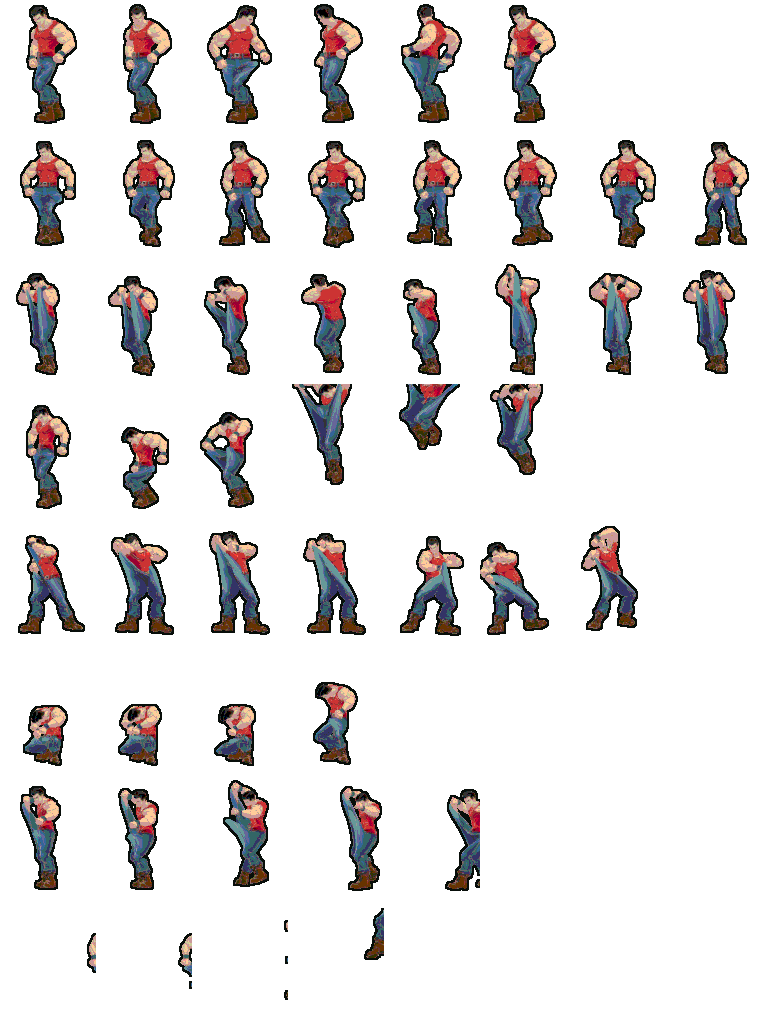
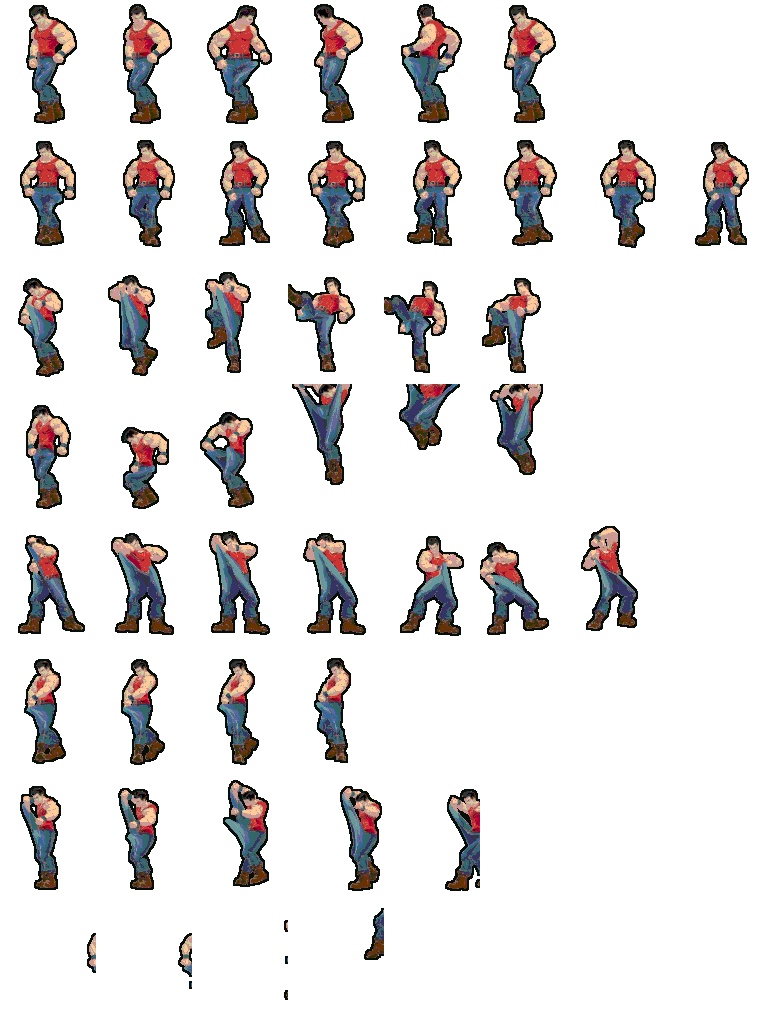
feat(crude-buster): vurma (net tekme) + kaldirma (kavrama) elden gecti
Kullanici geri bildirimi: saldiri ve tutus pozlari kotu okunuyordu.
- attack: Punch_Combo -> Spartan_Kick (206). Boks yumrugu 3/4 kucuk
  olcekte belirsizdi; net ileri tekme "saldiri"yi bariz okutur.
- hold: Collect_Object (egilme) -> Carry_Heavy_Cannon_Forward (550),
  kollar onde kavrama pozu.
- 8 karakterin hepsine uygulandi (her biri kendi rig'iyle, ~62 kredi).
- SHEET_LAYOUT attack 8->6 kare; render pencereleri ayarlandi.

Surum: crude-buster.js v11, tum sheet +1, SW convivium-v242.

diff --git a/assets/js/crude-buster.js b/assets/js/crude-buster.js
@@ -1281,7 +1281,7 @@ window.CrudeBuster = (function () {
     rows: {
       idle:   { row: 0, frames: 6 },
       walk:   { row: 1, frames: 8 },
-      attack: { row: 2, frames: 8 },
+      attack: { row: 2, frames: 6 },
       jump:   { row: 3, frames: 6 },
       throw:  { row: 4, frames: 7 },
       hold:   { row: 5, frames: 4 },
@@ -1291,14 +1291,14 @@ window.CrudeBuster = (function () {
   };
   // pal -> sprite sheet. Yeni karakter eklemek = burada bir satir + PNG.
   var SHEET_DEFS = [
-    { pal: 'ebinal',     src: '/assets/img/crude/ebinal-sheet.png?v=3',      drawH: 58, footPad: 3 },
-    { pal: 'debinal',    src: '/assets/img/crude/debinal-sheet.png?v=2',     drawH: 56, footPad: 3 },
-    { pal: 'punk',       src: '/assets/img/crude/punk-sheet.png?v=2',        drawH: 54, footPad: 3 },
-    { pal: 'knife',      src: '/assets/img/crude/knife-sheet.png?v=2',       drawH: 54, footPad: 3 },
-    { pal: 'brute',      src: '/assets/img/crude/brute-sheet.png?v=2',       drawH: 50, footPad: 3 },
-    { pal: 'thrower',    src: '/assets/img/crude/thrower-sheet.png?v=2',     drawH: 52, footPad: 3 },
-    { pal: 'bruteBoss',  src: '/assets/img/crude/bruteBoss-sheet.png?v=2',   drawH: 48, footPad: 3 },
-    { pal: 'cyborgBoss', src: '/assets/img/crude/cyborgBoss-sheet.png?v=2',  drawH: 48, footPad: 3 }
+    { pal: 'ebinal',     src: '/assets/img/crude/ebinal-sheet.png?v=4',      drawH: 58, footPad: 3 },
+    { pal: 'debinal',    src: '/assets/img/crude/debinal-sheet.png?v=3',     drawH: 56, footPad: 3 },
+    { pal: 'punk',       src: '/assets/img/crude/punk-sheet.png?v=3',        drawH: 54, footPad: 3 },
+    { pal: 'knife',      src: '/assets/img/crude/knife-sheet.png?v=3',       drawH: 54, footPad: 3 },
+    { pal: 'brute',      src: '/assets/img/crude/brute-sheet.png?v=3',       drawH: 50, footPad: 3 },
+    { pal: 'thrower',    src: '/assets/img/crude/thrower-sheet.png?v=3',     drawH: 52, footPad: 3 },
+    { pal: 'bruteBoss',  src: '/assets/img/crude/bruteBoss-sheet.png?v=3',   drawH: 48, footPad: 3 },
+    { pal: 'cyborgBoss', src: '/assets/img/crude/cyborgBoss-sheet.png?v=3',  drawH: 48, footPad: 3 }
   ];
   var SHEETS = {};   // pal -> { img, ready, drawH, footPad }
   function loadSheets() {

diff --git a/service-worker.js b/service-worker.js
@@ -3,7 +3,7 @@
  * Offline destek ve cache yonetimi
  */
 
-const CACHE_NAME = 'convivium-v241';
+const CACHE_NAME = 'convivium-v242';
 const OFFLINE_URL = '/offline.html';
 
 // Cache'lenecek dosyalar
@@ -119,15 +119,15 @@ const PRECACHE_ASSETS = [
   '/assets/js/auth-gate.js?v=22',
   '/assets/css/crude-buster.css?v=2',
   '/assets/js/crude-buster-net.js?v=2',
-  '/assets/js/crude-buster.js?v=10',
-  '/assets/img/crude/ebinal-sheet.png?v=3',
-  '/assets/img/crude/debinal-sheet.png?v=2',
-  '/assets/img/crude/punk-sheet.png?v=2',
-  '/assets/img/crude/knife-sheet.png?v=2',
-  '/assets/img/crude/brute-sheet.png?v=2',
-  '/assets/img/crude/thrower-sheet.png?v=2',
-  '/assets/img/crude/bruteBoss-sheet.png?v=2',
-  '/assets/img/crude/cyborgBoss-sheet.png?v=2',
+  '/assets/js/crude-buster.js?v=11',
+  '/assets/img/crude/ebinal-sheet.png?v=4',
+  '/assets/img/crude/debinal-sheet.png?v=3',
+  '/assets/img/crude/punk-sheet.png?v=3',
+  '/assets/img/crude/knife-sheet.png?v=3',
+  '/assets/img/crude/brute-sheet.png?v=3',
+  '/assets/img/crude/thrower-sheet.png?v=3',
+  '/assets/img/crude/bruteBoss-sheet.png?v=3',
+  '/assets/img/crude/cyborgBoss-sheet.png?v=3',
   '/assets/js/dart-board-svg.js?v=3',
   '/assets/js/dart-online.js?v=2',
   '/assets/js/dart-atc.js?v=4',

diff --git a/pages/changelog.html b/pages/changelog.html
@@ -158,6 +158,17 @@
 
         <article class="entry">
             <time datetime="2026-07-25">2026-07-25</time><span class="tag">oyun</span>
+            <h2>Crude Buster: vurma ve kaldirma pozlari elden gecti</h2>
+            <p>Geri bildirim: saldiri (boks kombosu) ve tutus (yerden-alma egilmesi)
+            net okunmuyordu. Yumruk 3/4 kucuk olcekte belirsiz kaliyordu &mdash;
+            <strong>net bir ileri tekmeyle</strong> (Spartan kick) degistirildi, artik
+            "saldiri" bariz. Tutus icin egilme yerine <strong>kollar onde kavrama</strong>
+            (carry) pozu. Tum kadroya (8 karakter) uygulandi. Ayrica onceki turda
+            duzeltilen bir bug: karakter yon aynalamasi tersti (geri geri yuruyordu).</p>
+        </article>
+
+        <article class="entry">
+            <time datetime="2026-07-25">2026-07-25</time><span class="tag">oyun</span>
             <h2>Crude Buster: sanat butunlugu gecisi (kadro dunyaya oturdu)</h2>
             <p>Karakterler "yapistirilmis pürüzsüz 3B" gibi duruyordu &mdash;
             chunky-piksel + CRT dunyayla catisiyordu. Tum kadro yeniden render

diff --git a/games/crude-buster.html b/games/crude-buster.html
@@ -177,7 +177,7 @@
   </div>
 
   <script src="/assets/js/crude-buster-net.js?v=2"></script>
-  <script src="/assets/js/crude-buster.js?v=10"></script>
+  <script src="/assets/js/crude-buster.js?v=11"></script>
   <script>
     (function () {
       'use strict';
